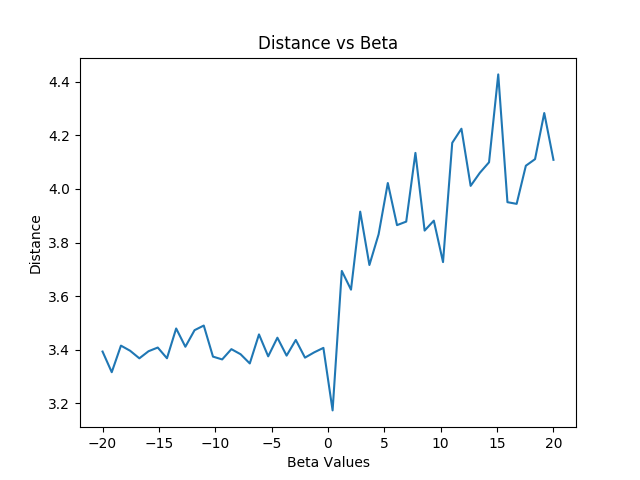
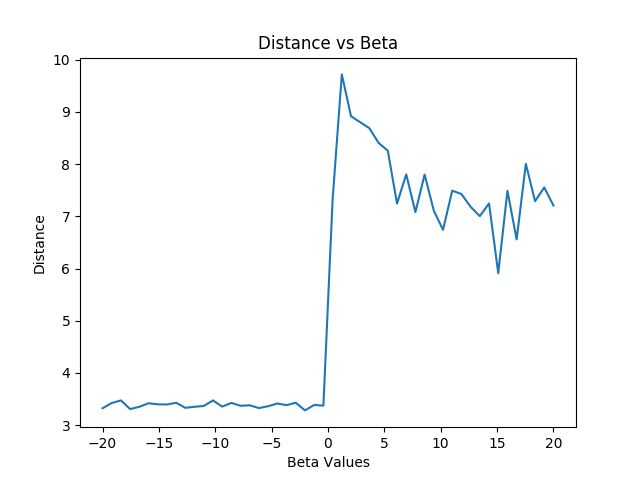
Error fixing of reward value

diff --git a/GridWorld_2_Agents.py b/GridWorld_2_Agents.py
@@ -152,7 +152,7 @@ class RunAgents:
         
         location = self.find_location(ch)
         distance = self.proximity(ch)
-        proximity_reward = -math.exp(self.beta * distance)
+        proximity_reward = math.exp(self.beta * distance)
         i = 100
         for x in self.reward_states:
             i += 1

diff --git a/GridWorld_n_Agents.py b/GridWorld_n_Agents.py
@@ -315,7 +315,7 @@ class RunAgents:
             
      
 
-num_agents_array = [3,4,5,6,7,8,9,10]
+num_agents_array = [2,3,4,5,6,7,8,9,10]
 for num_agents in num_agents_array:
     beta_array = [2.5] #np.linspace(-20,20,num=50)
     for beta in beta_array:
